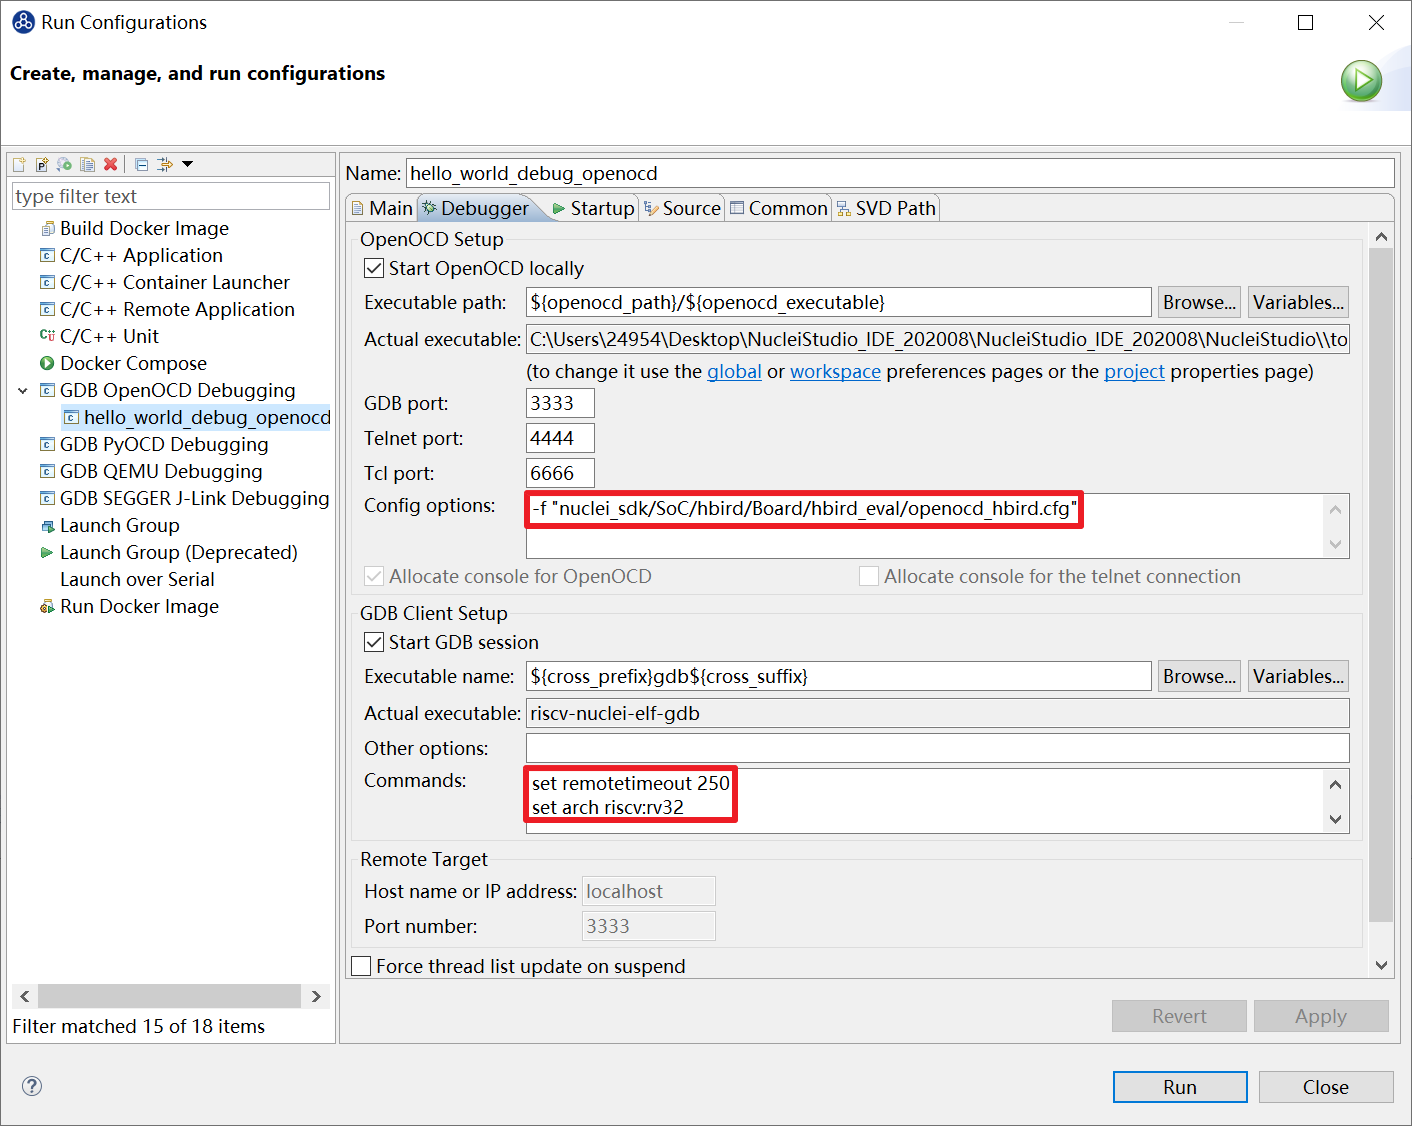
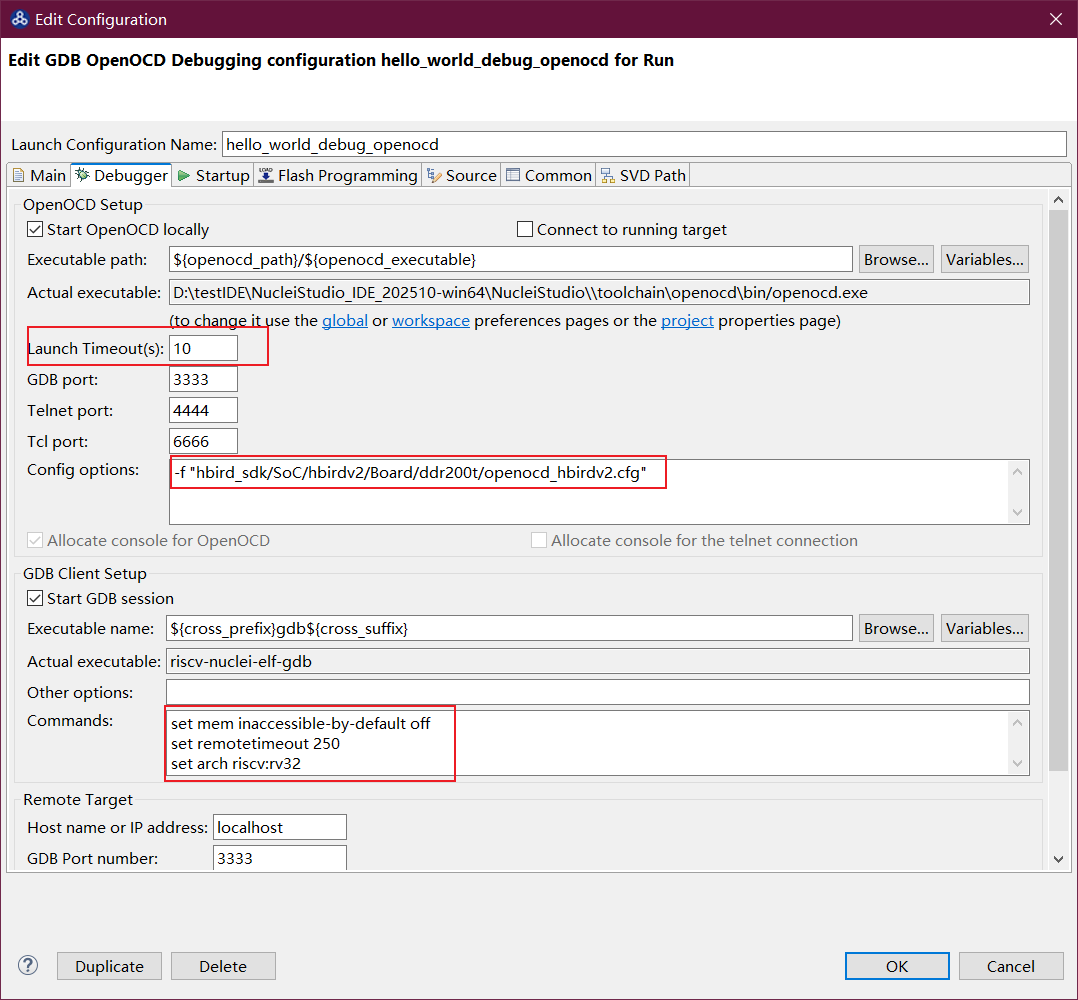
修改了修别字，添加了关于openocd等修改变动

Changed region(s): [[0.0, 0.0, 1.0, 0.93], [0.0, 0.961, 1.0, 1.0]]

diff --git a/source/ide/projectrun.rst b/source/ide/projectrun.rst
@@ -152,9 +152,14 @@ Debug Configuration
 
 |image12|
 
-在弹出的窗口中，如果没有当前工程的调试设置内容，右键单击 ``GDB OpenOCD Debugging`` ，选择 ``New`` ，将会为本项目新建出一个调试项目 ``hello_world_demo Debug`` 。确保 ``Project`` 是当前需要调试的工程， ``C/C++ Application`` 中选择了正确的需要调试的ELF文件。
-   
+在弹出的窗口中，如果没有当前工程的调试设置内容，右键单击 ``GDB OpenOCD Debugging`` ，选择 ``New`` ，将会为本项目新建出一个调试项目 ``hello_world_demo Debug`` 。
+
 |image13|
+
+确保 ``Project`` 是当前需要调试的工程， ``C/C++ Application`` 中选择了正确的需要调试的ELF文件。
+
+|image14|
+
 
 选择调试项目 ``hello_world_demo Debug`` 的Debugger菜单，在Config options栏目中填入 ``-f "nuclei_sdk/SoC/evalsoc/Board/nuclei_fpga_eval/openocd_evalsoc.cfg"`` ，以确保OpenOCD使用正确的配置文件。这里的配置文件(*nuclei_sdk/SoC/evalsoc/Board/nuclei_fpga_eval/openocd_evalsoc.cfg*)根据实际工程中openocd的配置文件路径而定。例如：如果使用makefile方式导入工程，修改此处的内容为 ``-f "SoC/evalsoc/Board/nuclei_fpga_eval/openocd_evalsoc.cfg"`` 。
 
@@ -162,15 +167,23 @@ Debug Configuration
 
 如果当前内核为64位，应确保替换为 ``set arch riscv:rv64`` 
 
-|image14|
+.. _ide_projectrun_timeout:
 
-选择调试项目 ``hello_world_demo Debug`` 的Startup菜单，确保 ``Debug in RAM`` , ``Pre-run/Restart reset`` , ``Set Breakpoint at Main`` 和 ``Continue`` 被勾选。
+.. note::
+
+   Launch Timeout 为Nuclei Studio 2025.10版中新增配置选项。
+   在实际生产中使用时发现在某些特定场景下 OpenOCD 启动很慢， Nuclei Studio 中默认的 10s 时间以内没有探测到 OpenOCD 启动，就会超时处理。因此，用户可以通过 Launch Timeout 来设置超时间。
 
 |image15|
 
-完成配置后点击右下方 ``Apply`` 保存设置。
+
+
+
+选择调试项目 ``hello_world_demo Debug`` 的Startup菜单，确保 ``Debug in RAM`` , ``Pre-run/Restart reset`` , ``Set Breakpoint at Main`` 和 ``Continue`` 被勾选。
 
 |image16|
+
+完成配置后点击右下方 ``Apply`` 保存设置。
 
 关于Debug Configuration 中Startup各项设置的具体含义，详细说明如下。这里的设定内容最终将以GDB命令的方式实现，所以在执行GDB命令时也是按此顺序来执行。
 

diff --git a/source/ide/intro.rst b/source/ide/intro.rst
@@ -106,6 +106,10 @@ Nuclei Studio 更新说明
 
 在Nuclei Studio 2025.10版本中集成了Nuclei Near Cycle Model 2025.10版，具体信息可以查看：https://doc.nucleisys.com/nuclei_tools/xlmodel/intro.html 。
 
+.. note::
+
+   如需确认当前 Nuclei Studio 中所集城的RISC-V Toolchain、OpenOCD、QEMU、Nuclei Model的版本集息，可以查看该工具链下 ``build.txt`` 和 ``gitrepo.txt`` 文件，文件内存有构建信息以及git各个子仓的commit信息。 
+
 新增对更多新核的支持
 ~~~~~~~~~~~~~~~~~~~~
 
@@ -151,10 +155,16 @@ Nuclei Studio中有些比较常用的菜单，如 ``New Nuclei RISC-V C/C++ Proj
 
 Nuclei Model是芯来科技为 Nuclei Near Cycle Model 开发了专门的运行工具，在本次版本更新中，增强了Nuclei Near Cycle Model的功能，用户可以在Nuclei Near Cycle Model对工程进行Debug/Run等操作。增加了全新的Nuclei Model Debug Configuration视图，以更好的支持运行和调试功能。
 
-
 关于Nuclei Model Debugger中Flame View的内容可以查看 :ref:`Nuclei Model 中Flame View的使用 <ide_nuclei_model_flame>` 。
 
 具体参见 :ref:`Nuclei Model Debugger功能的使用 <ide_nuclei_model_debugger>` 。
+
+优化了 GDB Custom 调试功能
+~~~~~~~~~~~~~~~~~~~~~~~~~~~
+
+GDB Custom 是芯来科技为适应不同的调试工具，开发的一款简化的调试配置，允许用户在 Nuclei Studio 使用自己定义的调试工具来调试程序。本次版本在原有功能基础上做了优化，使之用户体验更好。
+
+具体参见 :ref:`GDB Custom 调试功能 <ide_nuclei_custom_debugger>` 。
 
 优化Trace功能
 ~~~~~~~~~~~~~~
@@ -188,7 +198,7 @@ ZCC升级
 ~~~~~~~~~~~~~~
 
 - 修复了 Lst View 在某些场景下打开文件导至IDE卡死的情况；
-- 修复了 打开或者删除 *.elf、*.o 文件时报文件占用的问题；
+- 修复了 打开或者删除 ``*.elf、*.o`` 文件时报文件占用的问题；
 - 修复了 Nuclei Studio Linux 版中 Coverage 功能数据为空的问题；
 - 修复了 Flash Programming 功能中无法选择非当前工程下二进制文件的问题；
 - 修复了 OpenOCD 调试蜂鸟工程报错的问题；
